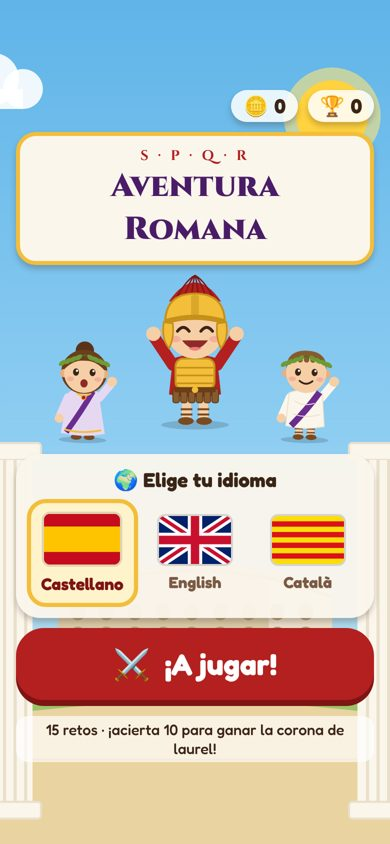
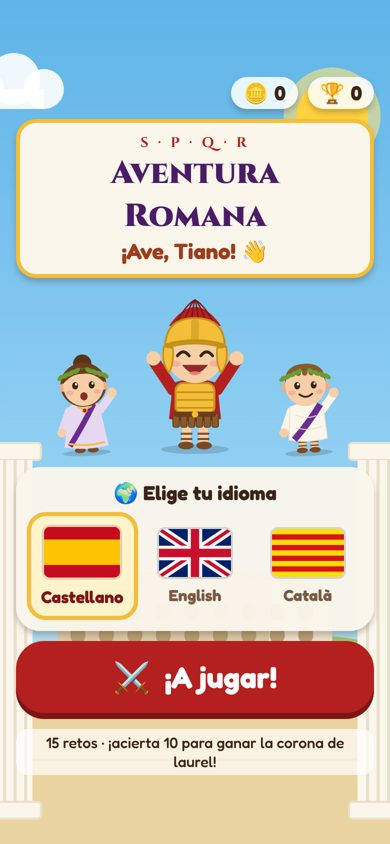
Tiano por su nombre, fin de partida al 6.º fallo y docs actualizadas
Claude-Session: https://claude.ai/code/session_01MStzpNvdkKDSRLHK1L6od5

diff --git a/aventura-romana/src/i18n.ts b/aventura-romana/src/i18n.ts
@@ -1,4 +1,7 @@
 export type Lang = 'es' | 'en' | 'ca';
+
+/** Nombre del jugador: los romanos le llaman por su nombre. */
+export const PLAYER_NAME = 'Tiano';
 export type L = Record<Lang, string>;
 
 export const LANGS: Lang[] = ['es', 'en', 'ca'];
@@ -20,7 +23,7 @@ export const ui = {
   next: { es: 'Seguir', en: 'Next', ca: 'Endavant' },
   true: { es: 'Verdadero', en: 'True', ca: 'Veritat' },
   false: { es: 'Falso', en: 'False', ca: 'Fals' },
-  wellDone: { es: '¡Muy bien!', en: 'Well done!', ca: 'Molt bé!' },
+  wellDone: { es: '¡Muy bien, {name}!', en: 'Well done, {name}!', ca: 'Molt bé, {name}!' },
   oops: { es: '¡Casi!', en: 'Almost!', ca: 'Gairebé!' },
   theAnswerWas: { es: 'La respuesta era:', en: 'The answer was:', ca: 'La resposta era:' },
   didYouKnow: { es: '¿Sabías que…?', en: 'Did you know…?', ca: 'Sabies que…?' },
@@ -29,19 +32,19 @@ export const ui = {
   replay: { es: 'Ver otra vez', en: 'Watch again', ca: 'Tornar-ho a veure' },
   ready: { es: '¡Ya lo vi!', en: 'I saw it!', ca: 'Ja ho he vist!' },
   check: { es: 'Comprobar', en: 'Check', ca: 'Comprovar' },
-  winTitle: { es: '¡AVE, CAMPEÓN!', en: 'AVE, CHAMPION!', ca: 'AVE, CAMPIÓ!' },
+  winTitle: { es: '¡AVE, {name}!', en: 'AVE, {name}!', ca: 'AVE, {name}!' },
   winText: {
-    es: '¡Eres un auténtico legionario del saber! El emperador te regala la corona de laurel.',
-    en: 'You are a true legionary of knowledge! The emperor gives you the laurel crown.',
-    ca: 'Ets un autèntic legionari del saber! L’emperador et regala la corona de llorer.',
+    es: '¡Campeón! Eres un auténtico legionario del saber. El emperador te regala la corona de laurel.',
+    en: 'Champion! You are a true legionary of knowledge. The emperor gives you the laurel crown.',
+    ca: 'Campió! Ets un autèntic legionari del saber. L’emperador et regala la corona de llorer.',
   },
-  loseTitle: { es: '¡No te desanimes!', en: "Don't give up!", ca: 'No et desanimis!' },
+  loseTitle: { es: '¡No te desanimes, {name}!', en: "Don't give up, {name}!", ca: 'No et desanimis, {name}!' },
   loseText: {
     es: 'Hasta los mejores legionarios entrenan muchas veces. ¡Inténtalo otra vez, tú puedes!',
     en: 'Even the best legionaries train many times. Try again, you can do it!',
     ca: 'Fins i tot els millors legionaris entrenen moltes vegades. Torna-ho a provar, tu pots!',
   },
-  score: { es: 'Aciertos', en: 'Correct', ca: 'Encerts' },
+  hello: { es: '¡Ave, {name}!', en: 'Ave, {name}!', ca: 'Ave, {name}!' },
   playAgain: { es: 'Jugar otra vez', en: 'Play again', ca: 'Tornar a jugar' },
   home: { es: 'Inicio', en: 'Home', ca: 'Inici' },
   coins: { es: 'Monedas de oro', en: 'Gold coins', ca: 'Monedes d’or' },
@@ -50,6 +53,9 @@ export const ui = {
   tapAll: { es: 'Toca todos', en: 'Tap all', ca: 'Toca tots' },
   quit: { es: '¿Salir?', en: 'Quit?', ca: 'Sortir?' },
 } satisfies Record<string, L>;
+
+/** Texto de la interfaz con el nombre del jugador ya puesto. */
+export const t = (key: keyof typeof ui, lang: Lang) => ui[key][lang].replace('{name}', PLAYER_NAME);
 
 export const subjectName: Record<string, L> = {
   math: { es: 'Mates', en: 'Maths', ca: 'Mates' },

diff --git a/aventura-romana/App.tsx b/aventura-romana/App.tsx
@@ -6,7 +6,7 @@ import { ActivityIndicator, Platform, StyleSheet, View } from 'react-native';
 import { SafeAreaProvider, SafeAreaView } from 'react-native-safe-area-context';
 import { RomanBackground } from './src/components/RomanBackground';
 import { Lang } from './src/i18n';
-import { buildSession, Session } from './src/questions/session';
+import { buildSession, PASS_MARK, Session } from './src/questions/session';
 import { HomeScreen } from './src/screens/HomeScreen';
 import { QuizScreen } from './src/screens/QuizScreen';
 import { ResultScreen } from './src/screens/ResultScreen';
@@ -27,12 +27,12 @@ function newSession(seenFacts: number[]): Session {
 /** Sólo en desarrollo web: ?demo=win / ?demo=lose abre directamente la pantalla final. */
 function initialScreen(): Screen {
   const demo = __DEV__ && Platform.OS === 'web' ? new URLSearchParams(window.location.search).get('demo') : null;
-  if (demo === 'win') return { name: 'result', correct: 12, total: 15 };
-  if (demo === 'lose') return { name: 'result', correct: 7, total: 15 };
+  if (demo === 'win') return { name: 'result', correct: 12, wrong: 3, total: 15 };
+  if (demo === 'lose') return { name: 'result', correct: 4, wrong: 6, total: 15 };
   return { name: 'home' };
 }
 
-type Screen = { name: 'home' } | { name: 'quiz'; session: Session; round: number } | { name: 'result'; correct: number; total: number };
+type Screen = { name: 'home' } | { name: 'quiz'; session: Session; round: number } | { name: 'result'; correct: number; wrong: number; total: number };
 
 export default function App() {
   const [fontsLoaded] = useFonts({ Cinzel_700Bold, Cinzel_900Black, Fredoka_500Medium, Fredoka_700Bold });
@@ -82,9 +82,9 @@ export default function App() {
             session={screen.session}
             onFactSeen={(id) => update({ seenFacts: [...progress.seenFacts, id].slice(-18) })}
             onQuit={() => setScreen({ name: 'home' })}
-            onFinish={(correct) => {
-              update({ coins: progress.coins + correct, crowns: progress.crowns + (correct >= 10 ? 1 : 0) });
-              setScreen({ name: 'result', correct, total: screen.session.questions.length });
+            onFinish={(correct, wrong) => {
+              update({ coins: progress.coins + correct, crowns: progress.crowns + (correct >= PASS_MARK ? 1 : 0) });
+              setScreen({ name: 'result', correct, wrong, total: screen.session.questions.length });
             }}
           />
         )}
@@ -92,6 +92,7 @@ export default function App() {
           <ResultScreen
             lang={lang}
             correct={screen.correct}
+            wrong={screen.wrong}
             total={screen.total}
             onAgain={() => setScreen({ name: 'quiz', session: newSession(progress.seenFacts), round: Date.now() })}
             onHome={() => setScreen({ name: 'home' })}

diff --git a/aventura-romana/src/screens/ResultScreen.tsx b/aventura-romana/src/screens/ResultScreen.tsx
@@ -3,31 +3,31 @@ import { StyleSheet, Text, View } from 'react-native';
 import { BigButton } from '../components/BigButton';
 import { Confetti } from '../components/Confetti';
 import { Romanito } from '../components/Romanito';
-import { Lang, ui } from '../i18n';
+import { Lang, t, ui } from '../i18n';
 import { PASS_MARK } from '../questions/session';
 import { play, say } from '../sound';
 import { colors, fonts, shadow } from '../theme';
 
-type Props = { lang: Lang; correct: number; total: number; onAgain: () => void; onHome: () => void };
+type Props = { lang: Lang; correct: number; wrong: number; total: number; onAgain: () => void; onHome: () => void };
 
 /**
- * Final de la partida. Con 15 preguntas, "10 o más bien" y "más de 5 mal" son exactamente
- * los dos casos posibles: o sale el emperador feliz, o el legionario triste que anima.
+ * Final de la partida. Se gana con 10 aciertos o más; al 6.º fallo la partida se corta
+ * y sale el legionario triste que anima a intentarlo otra vez.
  */
-export function ResultScreen({ lang, correct, total, onAgain, onHome }: Props) {
+export function ResultScreen({ lang, correct, wrong, total, onAgain, onHome }: Props) {
   const won = correct >= PASS_MARK;
 
   useEffect(() => {
     play(won ? 'fanfare' : 'sad');
-    const t = setTimeout(() => say(`${won ? ui.winTitle[lang] : ui.loseTitle[lang]} ${won ? ui.winText[lang] : ui.loseText[lang]}`, lang), 900);
-    return () => clearTimeout(t);
+    const timer = setTimeout(() => say(`${won ? t('winTitle', lang) : t('loseTitle', lang)} ${won ? ui.winText[lang] : ui.loseText[lang]}`, lang), 900);
+    return () => clearTimeout(timer);
   }, [won, lang]);
 
   return (
     <View style={styles.wrap}>
       {won && <Confetti />}
       <View style={styles.card}>
-        <Text style={[styles.title, { color: won ? colors.purpleDark : colors.terracottaDark }]}>{won ? ui.winTitle[lang] : ui.loseTitle[lang]}</Text>
+        <Text style={[styles.title, { color: won ? colors.purpleDark : colors.terracottaDark }]}>{won ? t('winTitle', lang) : t('loseTitle', lang)}</Text>
         <View style={styles.heroRow}>
           {won ? (
             <>
@@ -42,7 +42,10 @@ export function ResultScreen({ lang, correct, total, onAgain, onHome }: Props) {
         <Text style={styles.text}>{won ? ui.winText[lang] : ui.loseText[lang]}</Text>
         <View style={styles.scoreRow}>
           <Text style={styles.score}>
-            ✅ {correct} / {total}
+            ✅ {correct}
+          </Text>
+          <Text style={styles.score}>
+            ❌ {wrong}
           </Text>
           <Text style={styles.score}>+{correct} 🪙</Text>
         </View>

diff --git a/aventura-romana/src/screens/HomeScreen.tsx b/aventura-romana/src/screens/HomeScreen.tsx
@@ -2,13 +2,12 @@ import { Pressable, StyleSheet, Text, View } from 'react-native';
 import { BigButton } from '../components/BigButton';
 import { Flag } from '../components/Flags';
 import { Romanito } from '../components/Romanito';
-import { Lang, LANGS, ui } from '../i18n';
+import { Lang, LANGS, t, ui } from '../i18n';
 import { play, say } from '../sound';
 import { colors, fonts, shadow } from '../theme';
 
 type Props = { lang: Lang; coins: number; crowns: number; onLang: (l: Lang) => void; onPlay: () => void };
 
-const hello: Record<Lang, string> = { es: '¡Hola! ¡Ave!', en: 'Hello! Ave!', ca: 'Hola! Ave!' };
 
 export function HomeScreen({ lang, coins, crowns, onLang, onPlay }: Props) {
   return (
@@ -27,6 +26,7 @@ export function HomeScreen({ lang, coins, crowns, onLang, onPlay }: Props) {
       <View style={styles.banner}>
         <Text style={styles.spqr}>S · P · Q · R</Text>
         <Text style={styles.title}>{ui.appTitle[lang]}</Text>
+        <Text style={styles.hello}>{t('hello', lang)} 👋</Text>
       </View>
 
       <View style={styles.heroes}>
@@ -46,7 +46,7 @@ export function HomeScreen({ lang, coins, crowns, onLang, onPlay }: Props) {
               onPress={() => {
                 play('pop');
                 onLang(l);
-                say(hello[l], l);
+                say(t('hello', l), l);
               }}
               style={[styles.flagBtn, l === lang && styles.flagOn]}
             >
@@ -74,6 +74,7 @@ const styles = StyleSheet.create({
   banner: { backgroundColor: colors.marble, borderRadius: 20, borderWidth: 4, borderColor: colors.gold, paddingHorizontal: 22, paddingVertical: 10, alignItems: 'center', ...shadow },
   spqr: { fontFamily: fonts.titleBold, color: colors.red, fontSize: 14, letterSpacing: 3 },
   title: { fontFamily: fonts.title, color: colors.purpleDark, fontSize: 32, textAlign: 'center' },
+  hello: { fontFamily: fonts.bodyBold, color: colors.terracottaDark, fontSize: 22, textAlign: 'center' },
   heroes: { flexDirection: 'row', alignItems: 'flex-end', justifyContent: 'center', gap: 0 },
   card: { backgroundColor: 'rgba(251,246,236,0.95)', borderRadius: 24, padding: 14, width: '100%', maxWidth: 440, ...shadow },
   cardTitle: { fontFamily: fonts.bodyBold, fontSize: 20, color: colors.ink, textAlign: 'center', marginBottom: 10 },

diff --git a/aventura-romana/src/screens/QuizScreen.tsx b/aventura-romana/src/screens/QuizScreen.tsx
@@ -12,9 +12,9 @@ import { SpellGame } from '../games/SpellGame';
 import { TapGame } from '../games/TapGame';
 import { TrueFalseGame } from '../games/TrueFalseGame';
 import { VideoGame } from '../games/VideoGame';
-import { Lang, subjectName, ui } from '../i18n';
+import { Lang, subjectName, t, ui } from '../i18n';
 import { Fact } from '../questions/facts';
-import { Session } from '../questions/session';
+import { MAX_WRONG, Session } from '../questions/session';
 import { Question } from '../questions/types';
 import { say, stopSpeech } from '../sound';
 import { colors, fonts, shadow } from '../theme';
@@ -24,7 +24,8 @@ type Props = {
   session: Session;
   onFactSeen: (id: number) => void;
   onQuit: () => void;
-  onFinish: (correct: number) => void;
+  /** Termina al responder los 15 retos o al 6.º fallo. */
+  onFinish: (correct: number, wrong: number) => void;
 };
 
 const subjectIcon: Record<string, string> = { math: '🔢', history: '📜', rome: '🏛', english: '🇬🇧', catalan: '🗣' };
@@ -61,8 +62,10 @@ export function QuizScreen({ lang, session, onFactSeen, onQuit, onFinish }: Prop
   const next = useCallback(() => {
     if (fact) return;
     const done = index + 1;
-    if (done >= questions.length) {
-      onFinish(results.filter(Boolean).length);
+    const correct = results.filter(Boolean).length;
+    const wrong = results.length - correct;
+    if (done >= questions.length || wrong > MAX_WRONG) {
+      onFinish(correct, wrong);
       return;
     }
     const f = session.facts[done];
@@ -165,7 +168,7 @@ export function QuizScreen({ lang, session, onFactSeen, onQuit, onFinish }: Prop
 
       {answered && (
         <View style={[styles.feedback, { backgroundColor: lastOk ? colors.ok : colors.terracotta }]}>
-          <Text style={styles.feedbackText}>{lastOk ? `🎉 ${ui.wellDone[lang]}` : `💪 ${ui.oops[lang]}`}</Text>
+          <Text style={styles.feedbackText}>{lastOk ? `🎉 ${t('wellDone', lang)}` : `💪 ${ui.oops[lang]}`}</Text>
           <BigButton label={`${ui.next[lang]} ➜`} color={colors.gold} shade={colors.goldDark} textColor={colors.ink} onPress={next} />
         </View>
       )}

diff --git a/aventura-romana/src/questions/session.ts b/aventura-romana/src/questions/session.ts
@@ -10,6 +10,8 @@ export type Session = { questions: Question[]; facts: Record<number, Fact> };
 
 export const SESSION_SIZE = 15;
 export const PASS_MARK = 10;
+/** Al 6.º fallo la partida termina y sale el romano triste. */
+export const MAX_WRONG = 5;
 
 /** Reparto por partida: 5 mates, 3 historia (≥1 Argentina, ≥1 España/Cataluña), 2 Roma, 3 inglés, 2 catalán. */
 const PLAN = { math: 5, history: 3, rome: 2, english: 3, catalan: 2 };

diff --git a/aventura-romana/ANALISIS.md b/aventura-romana/ANALISIS.md
@@ -13,8 +13,8 @@
 | Mínimo 10 bien | 10 o más aciertos = partida ganada |
 | Más visual que escrito | Emojis grandes, banderas y relojes dibujados, frases cortas y **todo se lee en voz alta** |
 | Verdadero/falso, opción múltiple, vídeos, cuentas, juegos | 8 tipos de reto: V/F, opciones, cuentas (con dibujos o teclado), "vídeos" animados, memoria, ordenar, tocar todos, deletrear (+ escuchar) |
-| 10 bien → romano felicitando | Legionario y emperador saltando, confeti, trofeo y fanfarria |
-| Más de 5 mal → romano triste que anima | Legionario triste (con lagrimita) y mensaje de ánimo, botón grande "Jugar otra vez" |
+| 10 bien → romano felicitando | Legionario y emperador saltando, confeti, trofeo y fanfarria: «¡Ave, Tiano!» |
+| Más de 5 mal → romano triste que anima | En el 6.º fallo la partida termina y sale el legionario triste (con lagrimita) con mensaje de ánimo y botón grande "Jugar otra vez" |
 | Romanitos con curiosidades de Roma | 22 curiosidades (garum, testudo, termas, Tarraco…); salen 3 por partida y se evita repetir las ya vistas |
 | iOS y Android | Expo / React Native: el mismo código genera las dos apps |
 | En mi GitHub | Carpeta `aventura-romana/` + flujos de GitHub Actions que generan el APK y el IPA |
@@ -72,11 +72,11 @@ pingüinos, Iguazú.
 tiempo y el entorno. Por eso la historia es de "antes y ahora", tradiciones y la Hispania romana.
 Colón (1492) y Don Quijote son lo más "de libro".
 
-**H. "Cada vez que entres, sesión nueva".** Si sale a mitad de partida, esa partida se pierde y la próxima
-es nueva (tal como se pidió). Si solo cambia de app un momento y vuelve, sigue donde estaba. Ver pregunta 6.
+**H. "Cada vez que entres, sesión nueva".** ✅ Decidido: si cierra la app a mitad de partida, el progreso se
+pierde y empieza de nuevo. (Si solo cambia de app un momento sin cerrarla, sigue donde estaba.)
 
-**I. "Romano triste si responde más de 5 mal".** Puede entenderse como "en cuanto falle la 6.ª" (cortando
-la partida) o "al final". Elegí **al final**, para que siempre juegue las 15 y la sesión no se corte.
+**I. "Romano triste si responde más de 5 mal".** ✅ Decidido: **en el 6.º fallo** la partida termina en ese
+momento (después de ver la respuesta correcta) y sale el romano triste.
 
 **J. App iOS "instalable".** Para instalar en un iPhone sin pasar por el App Store, Apple obliga a firmar
 la app: con Apple ID gratis caduca cada 7 días, y con cuenta de desarrollador cuesta 99 €/año. Está
@@ -98,6 +98,12 @@ una vez (luego funciona sin internet).
   en el navegador en los 3 idiomas, con internet bloqueado.
 
 ## 5. Preguntas sobre la lógica de la app
+
+**Respuestas recibidas:** se pasa a `main` ✅ · 15 retos por partida, sin modo libre ✅ · los romanos le llaman
+**Tiano** ✅ · no hay temario del cole (se mantiene el currículo general) ✅ · si cierra la app se pierde la partida ✅ ·
+romano triste en el 6.º fallo ✅.
+
+Preguntas originales:
 
 1. **Duración**: ¿prefieres **más retos** por partida (por ejemplo 20) o mantener 15? ¿O un modo
    "entrenamiento" sin límite después de terminar?

diff --git a/aventura-romana/README.md b/aventura-romana/README.md
@@ -23,9 +23,11 @@ Funciona en **iOS y Android**, **sin conexión a internet**, y en **castellano, 
   - 🔊 **Escuchar**: la palabra suena y hay que tocar el dibujo
 - Las preguntas se **leen en voz alta** (se puede silenciar con 🔊).
 - Unas 3 veces por partida aparece un **romanito con una curiosidad** («¿Sabías que…?»).
+- Los romanos llaman a Tiano por su nombre («¡Ave, Tiano!», «¡Muy bien, Tiano!»). El nombre está en `PLAYER_NAME` (`src/i18n.ts`).
 - Al final:
   - **10 o más aciertos** → el legionario y el emperador saltan de alegría, confeti y corona de laurel 🏆
-  - **menos de 10 (más de 5 fallos)** → un legionario triste le anima a volver a intentarlo
+  - **al 6.º fallo** la partida se termina en ese momento y un legionario triste le anima a volver a intentarlo
+- Si se cierra la app (o se pulsa ✖) a mitad de partida, esa partida se pierde y la siguiente empieza de cero.
 - Cada acierto da una moneda 🪙 y cada partida ganada una corona 🏆 (se guardan en el móvil).
 
 ## Para probarla en un ordenador
